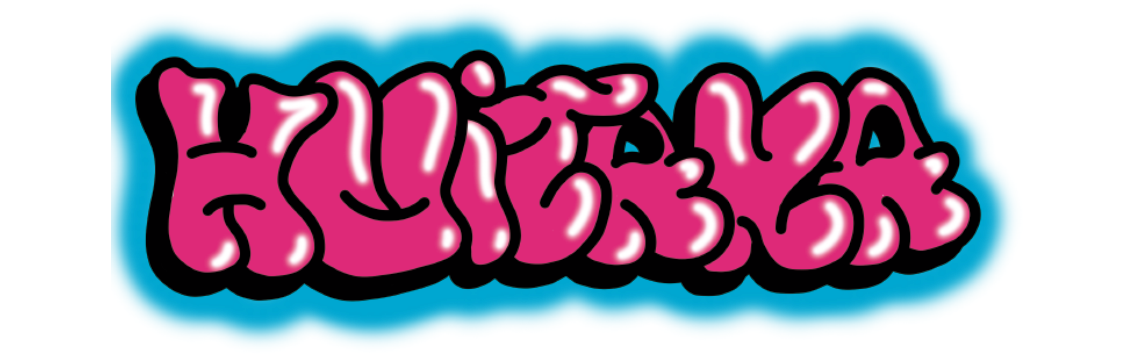
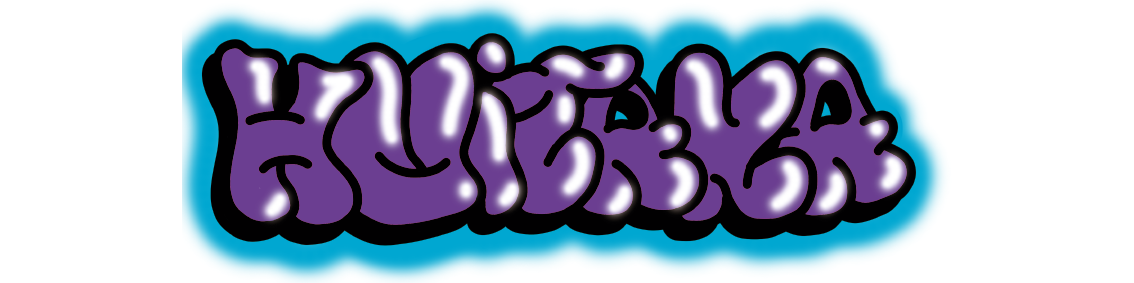
cores modificadas

diff --git a/pg/Home.html b/pg/Home.html
@@ -55,9 +55,58 @@
          </div>
         </div> 
         
-     </header>
+    </header>
  
-    <h1>home</h1>
+    <main>
+         <h1 class="text-center">Primeira linha Huitaka: Mostre todo seu drip com nossos produtos</h1>
+         <br>
+         <br>
+         <h4 class="container text-center col-11">Ter estilo é muito mais do que simplemente vestir uma roupa, é externar sua personalidade atravez de suas vestimentas.</h4>
+         <br>
+         <br>
+         <br>
+         <br>
+         <h2 class="text-center">Se liguem nas nossas roupas:</h2>
+         <div class="row col-12">
+             <div class="col-3">
+
+             </div>
+             <div class="col-6">
+                <img class="container img-fluid" src="../img/coleção.jpg" alt="">
+
+             </div>
+             <div class="col-3">
+
+            </div>
+         </div>
+         <br>
+         <br>
+         <br>
+         <br>
+         <br>
+         <br>
+         <h2 class="text-center">Deixe um pouco da sua personalidade por onde passar:</h2>
+         <div class="row col-12">
+            <div class="col-3">
+
+            </div>
+            <div class="col-6">
+               <img class="container img-fluid" src="../img/colagem.jpg" alt="">
+
+            </div>
+            <div class="col-3">
+
+           </div>
+        </div>
+        <br>
+         <br>
+         <br>
+         <br>
+         <br>
+         <br>
+
+         
+    </main>
 
     <footer id="BgVermelho" class="row jumbotron container col-md-12 text-light">
         

diff --git a/css/pi.css b/css/pi.css
@@ -1,5 +1,4 @@
 #TamanhoLogos{max-width: 50px;}
 #TamanhoLogosw{max-width: 80px;}
 
-#BgVermelho{ background-color: rgb(148, 13, 13);}
-
+#BgVermelho{ background-color: #940808;}
